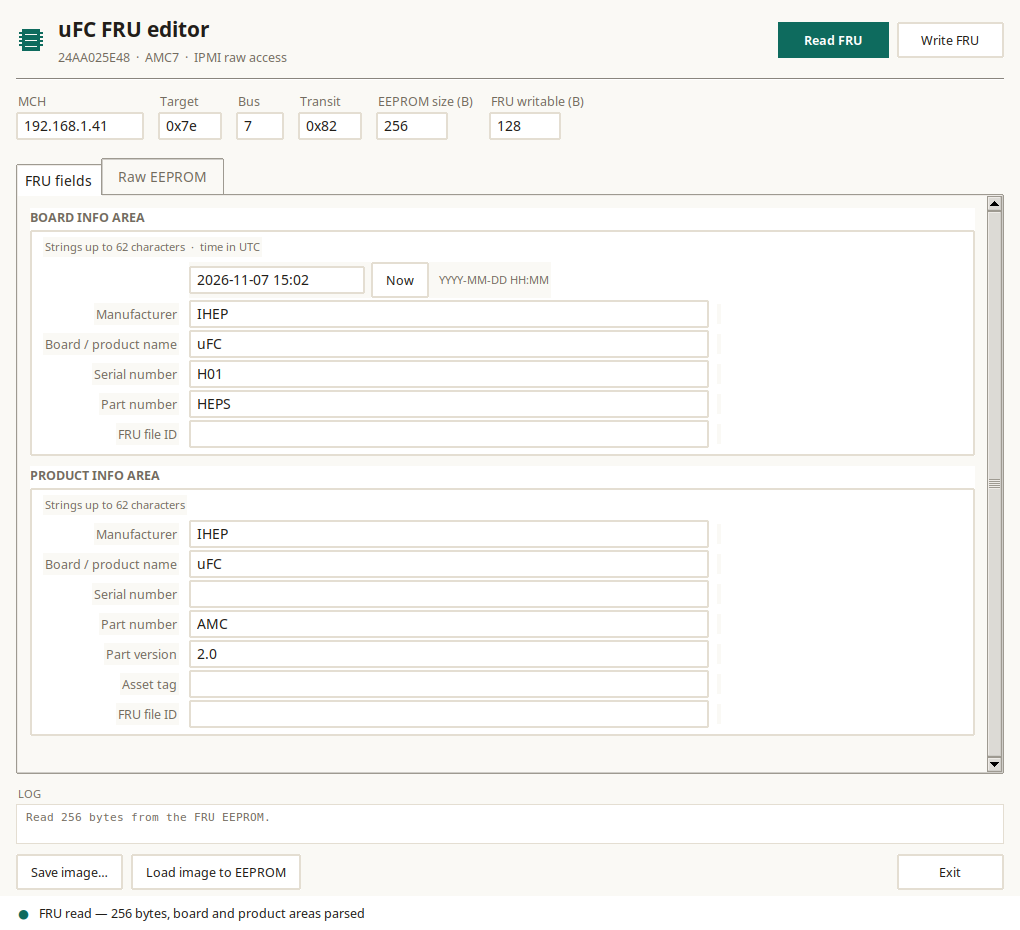
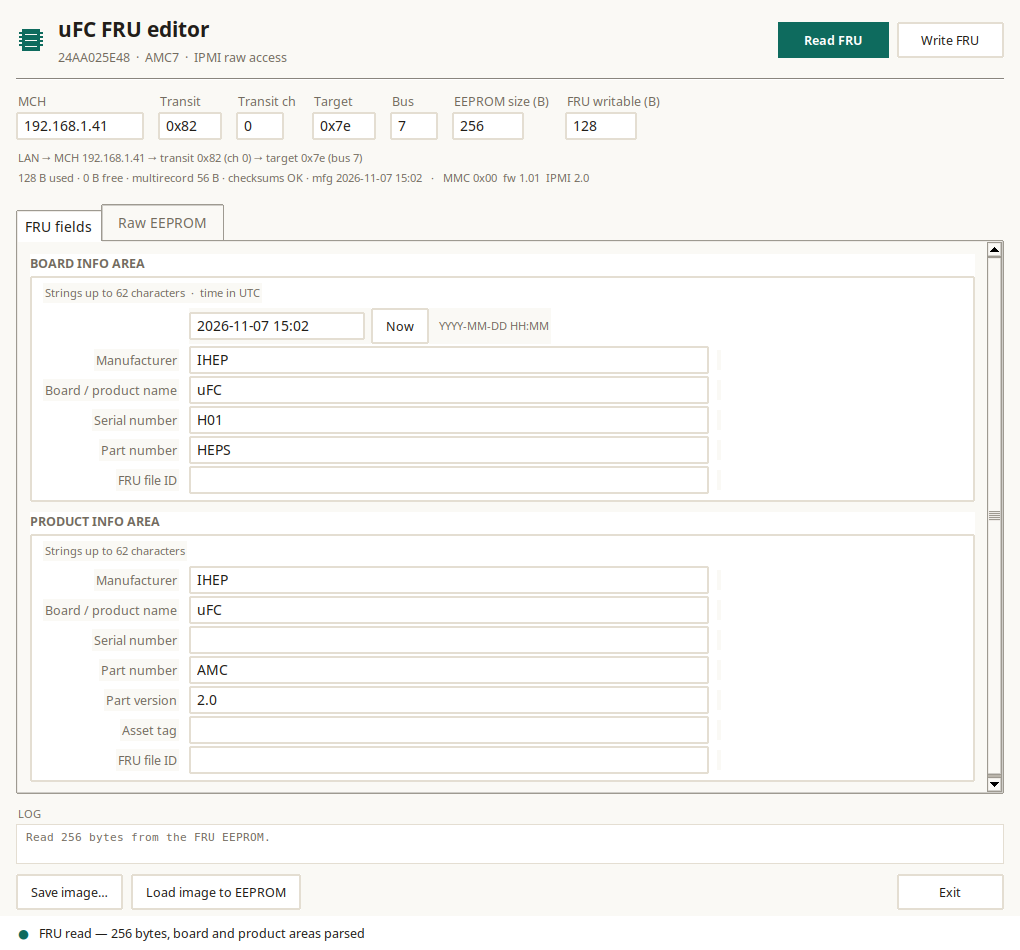
tools/fru_gui: explain the bridge fields and show FRU/MMC details
- reorder the strip along the actual path: MCH, Transit, Transit ch,
  Target, Bus, then the EEPROM sizes;
- hover hints on every connection and size field (what target/bus/
  transit mean, the 64 KB address limit, the writable half);
- a path line built from the fields
  (LAN -> MCH -> transit (ch) -> target (bus));
- after a read: used/free bytes, multirecord size, checksum state,
  manufacturing date and the MMC Get Device ID (fw / IPMI version);
- FruAccess takes the transit channel (-B) and exposes device_id().
Linux binary rebuilt; README screenshot refreshed.

diff --git a/tools/fru_gui/fru_gui_tk.py b/tools/fru_gui/fru_gui_tk.py
@@ -45,6 +45,34 @@ FIELD_LABELS = {
 }
 
 
+class Tooltip:
+    """Small hover hint in the app's ink-on-paper language."""
+
+    def __init__(self, widget, text):
+        self.widget = widget
+        self.text = text
+        self.tip = None
+        widget.bind("<Enter>", self._show, add="+")
+        widget.bind("<Leave>", self._hide, add="+")
+
+    def _show(self, _event=None):
+        if self.tip or not self.text:
+            return
+        x = self.widget.winfo_rootx() + 8
+        y = self.widget.winfo_rooty() + self.widget.winfo_height() + 6
+        self.tip = tk.Toplevel(self.widget)
+        self.tip.wm_overrideredirect(True)
+        self.tip.wm_geometry("+%d+%d" % (x, y))
+        tk.Label(self.tip, text=self.text, bg="#2B2823", fg="#FFFFFF",
+                 font=(UI_FONT, 8), padx=8, pady=4, justify="left",
+                 relief="flat").pack()
+
+    def _hide(self, _event=None):
+        if self.tip:
+            self.tip.destroy()
+            self.tip = None
+
+
 class FruEditor(tk.Tk):
     def __init__(self, mch, target, bus, transit, eeprom_size=256, fru_limit=128):
         super().__init__()
@@ -59,6 +87,10 @@ class FruEditor(tk.Tk):
         self._style()
 
         self._build_ui(mch, target, bus, transit, eeprom_size, fru_limit)
+        for var in (self.mch_var, self.transit_var, self.tch_var, self.target_var,
+                    self.bus_var):
+            var.trace_add("write", lambda *_: self._update_path())
+        self._update_path()
         self._status("Ready — firmware must be built with -DEEPROM_ACCESS=ON", "idle")
 
     # ---------------------------------------------------------------- style
@@ -132,12 +164,36 @@ class FruEditor(tk.Tk):
         # connection / size strip
         strip = ttk.Frame(self, padding=(16, 10, 16, 6))
         strip.pack(fill="x")
-        self.mch_var = self._labeled(strip, "MCH", mch, 14)
-        self.target_var = self._labeled(strip, "Target", target, 6)
-        self.bus_var = self._labeled(strip, "Bus", str(bus), 4)
-        self.transit_var = self._labeled(strip, "Transit", transit, 6)
-        self.size_var = self._labeled(strip, "EEPROM size (B)", str(eeprom_size), 7)
-        self.limit_var = self._labeled(strip, "FRU writable (B)", str(fru_limit), 7)
+        self.mch_var = self._labeled(
+            strip, "MCH", mch, 14,
+            tip="Address of the NAT-MCH crate manager\n(IPMI over LAN, this host's entry point).")
+        self.transit_var = self._labeled(
+            strip, "Transit", transit, 6,
+            tip="First bridge hop: the intermediate IPMI controller\n(NAT-MCH MCMC) that owns the AMC buses.")
+        self.tch_var = self._labeled(
+            strip, "Transit ch", "0", 4,
+            tip="Channel from the MCH to the transit bridge (usually 0).")
+        self.target_var = self._labeled(
+            strip, "Target", target, 6,
+            tip="Final device that answers: the AMC7 MMC's IPMB address (0x7E).")
+        self.bus_var = self._labeled(
+            strip, "Bus", str(bus), 4,
+            tip="IPMB channel on the transit that reaches the target\n(bus 7 = AMC7 slot).")
+        self.size_var = self._labeled(
+            strip, "EEPROM size (B)", str(eeprom_size), 7,
+            tip="Bytes read from the EEPROM. The raw command carries a\n16-bit address, so 65536 bytes is the maximum.")
+        self.limit_var = self._labeled(
+            strip, "FRU writable (B)", str(fru_limit), 7,
+            tip="Bytes of the FRU image that are written.\nThe 24AA025E48 only allows the lower 128 bytes.")
+
+        info = ttk.Frame(self, padding=(16, 2, 16, 4))
+        info.pack(fill="x")
+        self.path_var = tk.StringVar()
+        self.fruinfo_var = tk.StringVar(value="no FRU read yet")
+        tk.Label(info, textvariable=self.path_var, bg=BG, fg=MUTED,
+                 font=(UI_FONT, 8), anchor="w").pack(fill="x")
+        tk.Label(info, textvariable=self.fruinfo_var, bg=BG, fg=MUTED,
+                 font=(UI_FONT, 8), anchor="w").pack(fill="x")
 
         # notebook
         self.nb = ttk.Notebook(self)
@@ -206,12 +262,17 @@ class FruEditor(tk.Tk):
                    command=self.load_image).pack(side="left", padx=(8, 0))
         ttk.Button(bottom, text="Exit", command=self.destroy).pack(side="right")
 
-    def _labeled(self, parent, text, value, width):
+    def _labeled(self, parent, text, value, width, tip=None):
         box = ttk.Frame(parent)
         box.pack(side="left", padx=(0, 14))
-        ttk.Label(box, text=text, style="FieldLabel.TLabel").pack(anchor="w")
+        lab = ttk.Label(box, text=text, style="FieldLabel.TLabel")
+        lab.pack(anchor="w")
         var = tk.StringVar(value=value)
-        ttk.Entry(box, textvariable=var, width=width).pack(anchor="w")
+        ent = ttk.Entry(box, textvariable=var, width=width)
+        ent.pack(anchor="w")
+        if tip:
+            Tooltip(lab, tip)
+            Tooltip(ent, tip)
         return var
 
     def _build_area(self, parent, key, with_time, start_row=0):
@@ -250,6 +311,29 @@ class FruEditor(tk.Tk):
         update()
 
     # ------------------------------------------------------------- helpers
+    def _update_path(self):
+        try:
+            self.path_var.set(
+                "LAN → MCH %s → transit %s (ch %s) → target %s (bus %s)"
+                % (self.mch_var.get(), self.transit_var.get(), self.tch_var.get(),
+                   self.target_var.get(), self.bus_var.get()))
+        except Exception:
+            pass
+
+    def _fru_stats(self, parsed, limit):
+        raw = parsed["raw"]
+        used = parsed["image_len"]
+        multi = len(parsed["multi"])
+        ok = (sum(raw[:8]) & 0xFF) == 0
+        for key in ("board_area", "product_area"):
+            a = parsed[key]
+            if a:
+                ok = ok and (sum(raw[a["offset"]:a["offset"] + a["length"]]) & 0xFF) == 0
+        mfg = parsed["board"].get("mfg_time", 0)
+        return "%d B used · %d B free · multirecord %d B · checksums %s · mfg %s" % (
+            used, limit - used, multi, "OK" if ok else "BAD",
+            mfg_minutes_to_str(mfg))
+
     def _set_time_now(self):
         now = datetime.datetime.now(datetime.timezone.utc)
         self.time_var.set(now.strftime("%Y-%m-%d %H:%M"))
@@ -280,7 +364,7 @@ class FruEditor(tk.Tk):
         size, _limit = self._sizes()
         return FruAccess(self.mch_var.get().strip(), self.target_var.get().strip(),
                          self.transit_var.get().strip(), self.bus_var.get().strip(),
-                         eeprom_size=size)
+                         eeprom_size=size, transit_ch=int(self.tch_var.get().strip() or 0))
 
     def _fill(self, raw, parsed):
         self.raw = raw
@@ -311,9 +395,20 @@ class FruEditor(tk.Tk):
     def read_fru(self):
         try:
             _size, limit = self._sizes()
-            raw = self._access().dump()
+            acc = self._access()
+            raw = acc.dump()
             parsed = parse_fru(raw, limit=limit)
             self._fill(raw, parsed)
+            self._update_path()
+            info = self._fru_stats(parsed, limit)
+            try:
+                d = acc.device_id()
+                if len(d) >= 5:
+                    info += "   ·   MMC 0x%02x  fw %d.%02d  IPMI %d.%d" % (
+                        d[0], d[2] & 0x7F, d[3], d[4] & 0x0F, (d[4] >> 4) & 0x0F)
+            except Exception:
+                pass
+            self.fruinfo_var.set(info)
             self._status("FRU read — %d bytes, board and product areas parsed" % len(raw), "ok")
             self.log("Read %d bytes from the FRU EEPROM." % len(raw))
         except Exception as e:
@@ -342,6 +437,7 @@ class FruEditor(tk.Tk):
             raw = acc.dump()
             parsed = parse_fru(raw, limit=limit)
             self._fill(raw, parsed)
+            self.fruinfo_var.set(self._fru_stats(parsed, limit))
             problems = []
             for key, area_key in (("board", "board_area"), ("product", "product_area")):
                 info = parsed[area_key]

diff --git a/tools/fru_gui/fru_core.py b/tools/fru_gui/fru_core.py
@@ -76,11 +76,11 @@ def ipmitool_cmd():
 
 
 class FruAccess:
-    def __init__(self, mch, target, transit, bus, eeprom_size=EEPROM_SIZE):
+    def __init__(self, mch, target, transit, bus, eeprom_size=EEPROM_SIZE, transit_ch=0):
         self.mch = mch
         self.eeprom_size = eeprom_size
         self.bridge = ["-I", "lan", "-H", mch, "-A", "none",
-                       "-T", transit, "-B", "0", "-t", target, "-b", bus]
+                       "-T", transit, "-B", str(transit_ch), "-t", target, "-b", bus]
 
     def _ipmi(self, *args):
         out = subprocess.run([ipmitool_cmd()] + self.bridge + ["raw"] + list(args),
@@ -112,6 +112,10 @@ class FruAccess:
 
     def dump(self):
         return self.read(0, self.eeprom_size)
+
+    def device_id(self):
+        """IPMI Get Device ID (NetFn App 0x06, cmd 0x01) through the bridge."""
+        return self._ipmi("0x06", "0x01")
 
 
 # ---------------------------------------------------------------------------

diff --git a/tools/fru_gui/README.md b/tools/fru_gui/README.md
@@ -67,6 +67,40 @@ tools\fru_gui\build-windows.bat     # → tools\fru_gui\dist\ufc-fru-editor.exe
 `ipmitool` / `ipmitool.exe` next to the built executable — the app prefers the
 local copy when present.
 
+## What the connection fields mean
+
+A request reaches the AMC's MMC through a **double bridge**, so the app carries
+all four IPMI routing parameters:
+
+| Field | Meaning |
+|---|---|
+| **MCH** | The NAT-MCH, the crate manager (IPMI over LAN). The host's entry point. |
+| **Transit** | First hop: the intermediate IPMI controller (NAT-MCH MCMC) that owns the AMC buses. |
+| **Transit ch** | Channel from the MCH to the transit controller (usually 0). |
+| **Target** | Final device that answers: the AMC7 MMC's IPMB address (`0x7E`). |
+| **Bus** | IPMB channel on the transit that reaches the target (`7` = AMC7 slot). |
+| **EEPROM size** | Bytes read from the EEPROM (16-bit addressing, max 65536). |
+| **FRU writable** | Bytes of the FRU image written (the 24AA025E48 allows the lower 128). |
+
+Single bridging (`-t 0x7e -b 7` without a transit) does not reach the MMC on
+this crate; the transit hop is required.
+
+Hover any field for a short explanation.
+
+## Auxiliary information
+
+Below the connection strip the app shows, for every read:
+
+```
+LAN → MCH 192.168.1.41 → transit 0x82 (ch 0) → target 0x7e (bus 7)
+128 B used · 0 B free · multirecord 56 B · checksums OK · mfg 2026-11-07 15:02
+· MMC 0x00  fw 1.01  IPMI 2.0
+```
+
+- the bridge path built from the fields,
+- FRU image use (used/free bytes), multirecord size and checksum state,
+- manufacturing time, and the MMC's Get Device ID (firmware/IPMI version).
+
 ## Files
 
 | File | Purpose |
